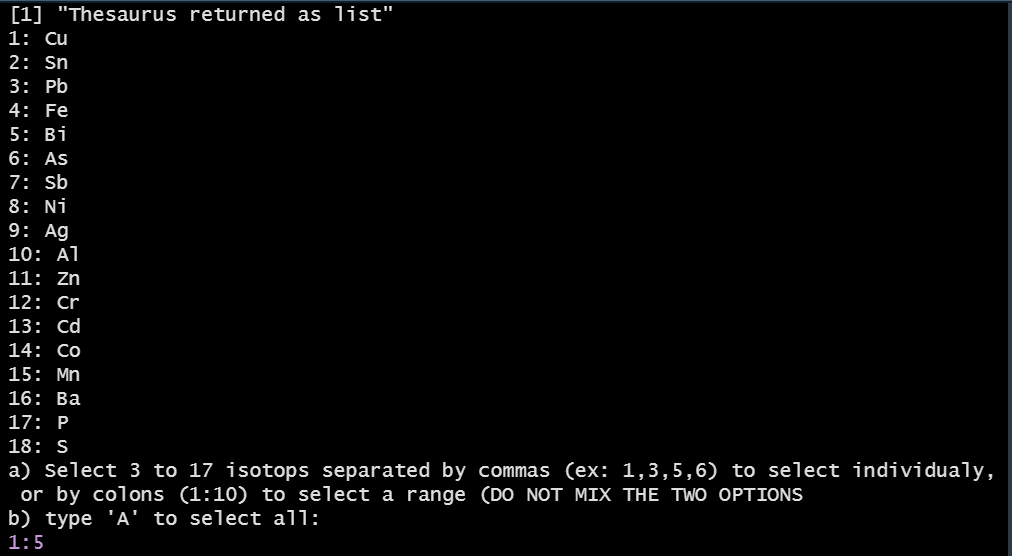
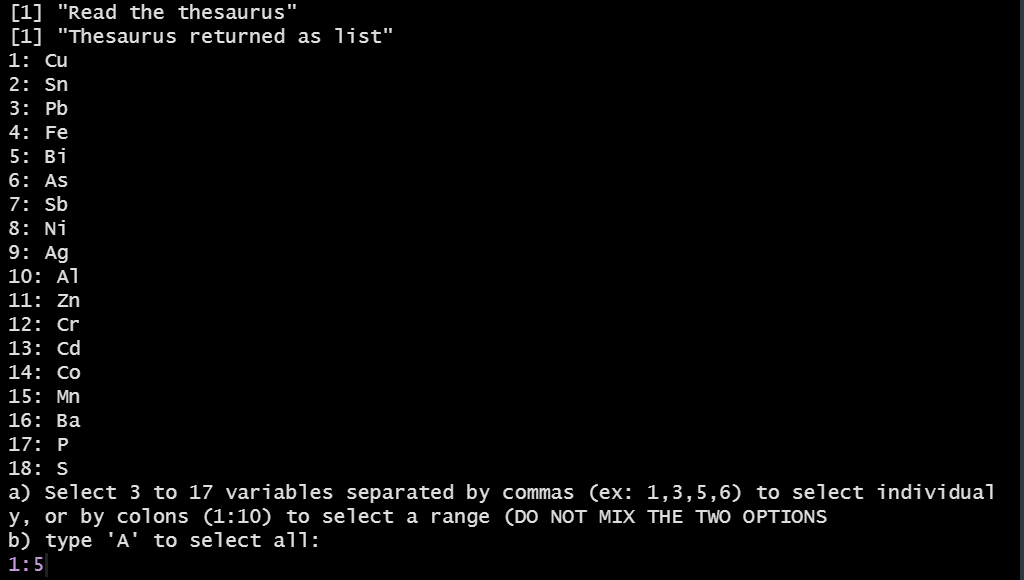
varia

Changed region(s): [[0.0, 0.0, 1.0, 1.0]]

diff --git a/doc/isotop_ca.html b/doc/isotop_ca.html
@@ -1,4 +1,4 @@
-<!DOCTYPE html PUBLIC "-//W3C//DTD XHTML 1.0 Strict//EN" "http://www.w3.org/TR/xhtml1/DTD/xhtml1-strict.dtd"><html xmlns="http://www.w3.org/1999/xhtml"><head><title>R: Correspondance Analysis on isotop data</title>
+<!DOCTYPE html PUBLIC "-//W3C//DTD XHTML 1.0 Strict//EN" "http://www.w3.org/TR/xhtml1/DTD/xhtml1-strict.dtd"><html xmlns="http://www.w3.org/1999/xhtml"><head><title>R: Correspondance Analysis on isotopes, chemical components, or...</title>
 <meta http-equiv="Content-Type" content="text/html; charset=utf-8" />
 <meta name="viewport" content="width=device-width, initial-scale=1.0, user-scalable=yes" />
 <link rel="stylesheet" type="text/css" href="R.css" />
@@ -6,11 +6,11 @@
 
 <table width="100%" summary="page for isotop_ca"><tr><td>isotop_ca</td><td style="text-align: right;">R Documentation</td></tr></table>
 
-<h2>Correspondance Analysis on isotop data</h2>
+<h2>Correspondance Analysis on isotopes, chemical components, or elements.</h2>
 
 <h3>Description</h3>
 
-<p>Correspondance Analysis on isotop data. Inspired by the 'zoo_ca()' function of zoowork
+<p>Correspondance Analysis on isotopes, chemical components, or elements data. Inspired by the 'zoo_ca()' function of the R package 'zoowork'
 </p>
 
 
@@ -48,7 +48,7 @@ isotop_ca(
 </td></tr>
 <tr valign="top"><td><code>iso.preselect</code></td>
 <td>
-<p>a preselection of the isotops that will be analysed, in a vector form, ex: 'c(1, 2, 3, 4, 5)'. If provided, will skip the user prompt. Default NA.</p>
+<p>a preselection of the variables that will be analysed, in a vector form, ex: 'c(1, 2, 3, 4, 5)'. If provided, will skip the user prompt. Default NA.</p>
 </td></tr>
 <tr valign="top"><td><code>num_column</code></td>
 <td>

diff --git a/doc/isotop_thesaurus.html b/doc/isotop_thesaurus.html
@@ -1,4 +1,4 @@
-<!DOCTYPE html PUBLIC "-//W3C//DTD XHTML 1.0 Strict//EN" "http://www.w3.org/TR/xhtml1/DTD/xhtml1-strict.dtd"><html xmlns="http://www.w3.org/1999/xhtml"><head><title>R: Read the thesaurus of isotops</title>
+<!DOCTYPE html PUBLIC "-//W3C//DTD XHTML 1.0 Strict//EN" "http://www.w3.org/TR/xhtml1/DTD/xhtml1-strict.dtd"><html xmlns="http://www.w3.org/1999/xhtml"><head><title>R: Read the thesaurus of authoritative labels for chemistry...</title>
 <meta http-equiv="Content-Type" content="text/html; charset=utf-8" />
 <meta name="viewport" content="width=device-width, initial-scale=1.0, user-scalable=yes" />
 <link rel="stylesheet" type="text/css" href="R.css" />
@@ -6,11 +6,11 @@
 
 <table width="100%" summary="page for isotop_thesaurus"><tr><td>isotop_thesaurus</td><td style="text-align: right;">R Documentation</td></tr></table>
 
-<h2>Read the thesaurus of isotops</h2>
+<h2>Read the thesaurus of authoritative labels for chemistry variables</h2>
 
 <h3>Description</h3>
 
-<p>Read the thesaurus of isotopes. Add values and column names into a list that can be compared to input dataset.
+<p>Read the thesaurus of isotopes, elements, ... Add values and column names into a list that can be compared to input dataset.
 </p>
 
 
